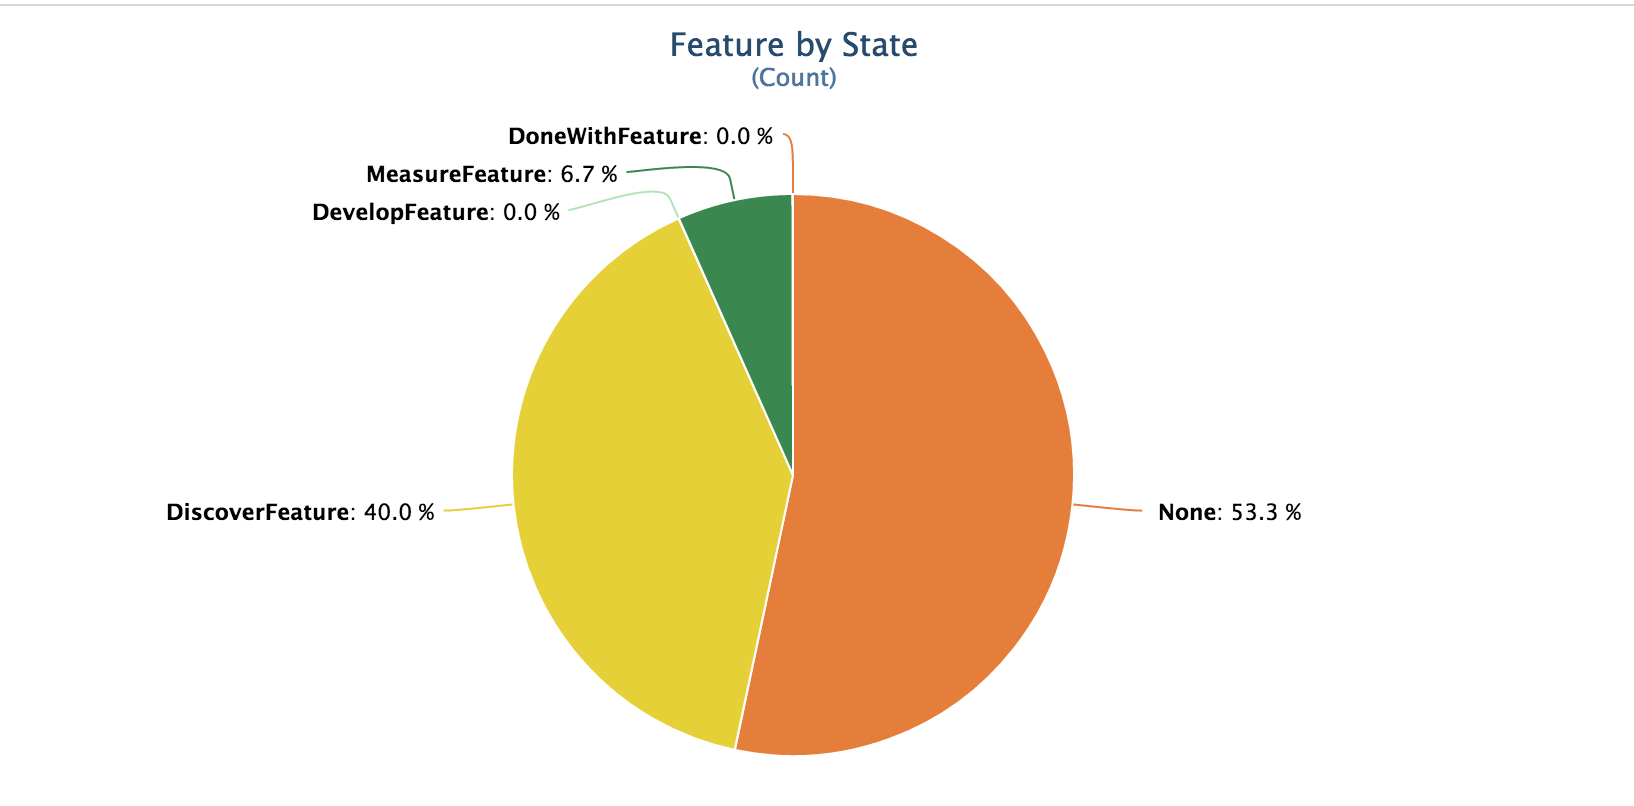
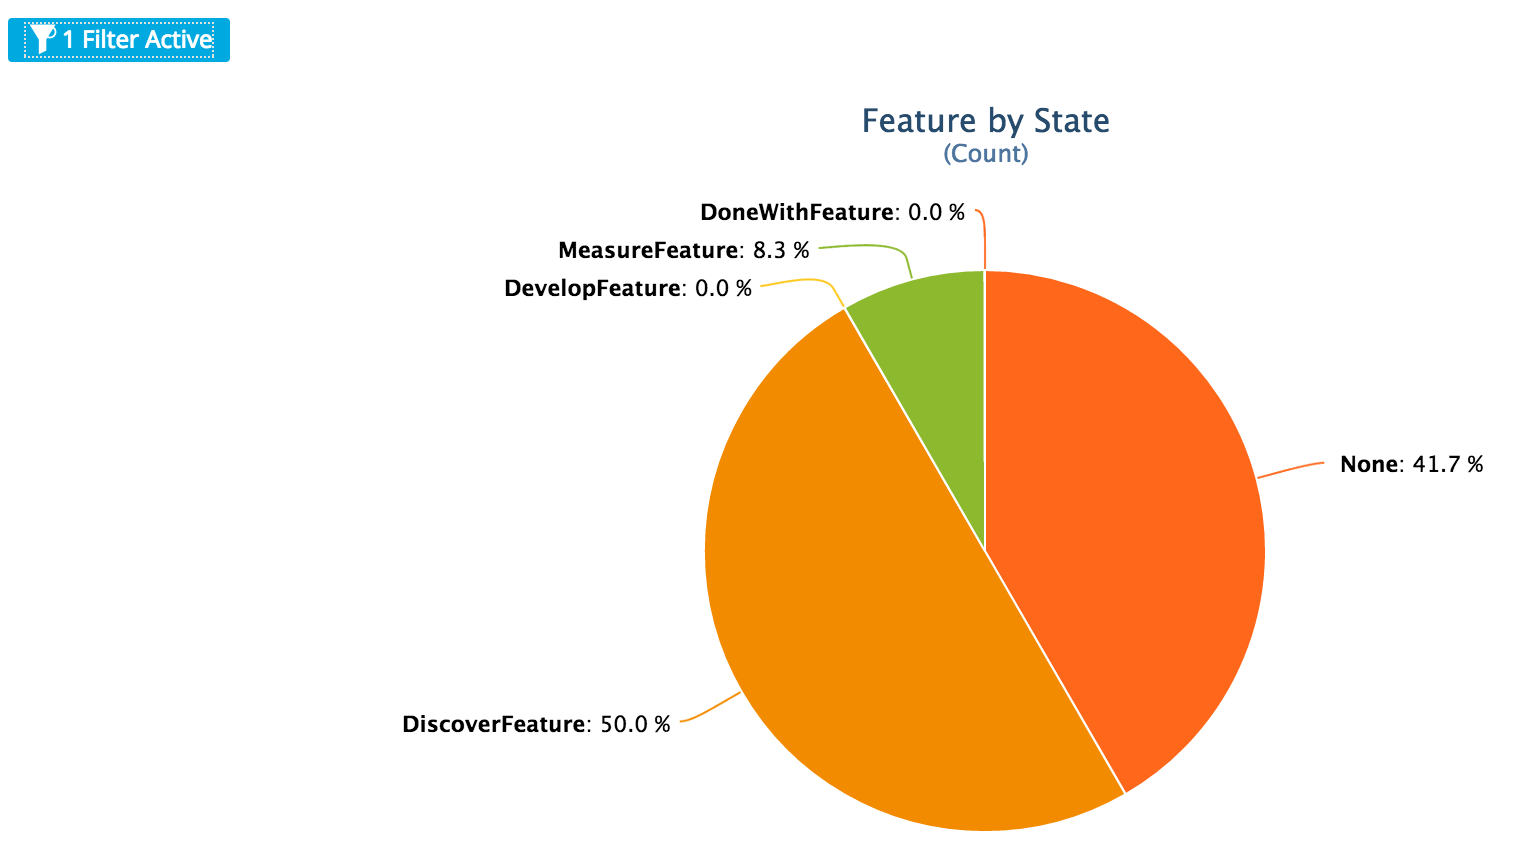
add advanced filter

diff --git a/configurable_pie_chart/src/javascript/app.js b/configurable_pie_chart/src/javascript/app.js
@@ -8,13 +8,19 @@ Ext.define("TSConfigurablePieChart", {
     items: [
         {
             xtype:'panel', 
-            itemId:'chart_box', 
+            itemId:'chart_box_panel', 
             flex: 1,
             hideCollapseTool: true,
             collapsible: true,
             collapsed: false,
             collapseDirection: 'left',
-            minHeight: 400
+            minHeight: 400,
+            margin: 0,
+            items: [
+                { xtype:'container', itemId: 'selector_box', layout: 'hbox' },
+                { xtype:'container', itemId: 'advanced_filter_box', flex: 1},
+                { xtype:'container', itemId: 'chart_box', flex: 1}
+            ]
         },
         {xtype:'container', itemId:'detail_box'}
     ],
@@ -46,15 +52,15 @@ Ext.define("TSConfigurablePieChart", {
             return;
         }
         
-        this.typeDisplayName = this.getSetting('types').replace(/.*\//,'');
-        
         this._loadModel(this.getSetting('types')).then({
             success: function(model) {
+                this.typeDisplayName = this.getSetting('types').replace(/.*\//,'');
                 this.field = model.getField(this.getSetting('aggregationField'));
                 this.fieldDisplayName = this.field.displayName;
                 this.typeDisplayName = this.getSetting('types').replace(/.*\//,'');
 
-                this._updateData();
+                this._addSelectors();
+                //this._updateData();
             },
             failure: function(msg) {
                 Ext.Msg.alert('',msg);
@@ -63,9 +69,55 @@ Ext.define("TSConfigurablePieChart", {
         }).always(function(){ me.setLoading(false);});
     },
     
+    _addSelectors: function() {
+        var container = this.down('#selector_box');
+        container.removeAll();
+//        var fp = this.getSelectorBox().add({
+//            xtype: 'fieldpickerbutton',
+//            modelNames: [this.getSetting('types')],
+//            context: this.getContext(),
+//            margin: '10 5 10 5',
+//            stateful: true,
+//            stateId: 'grid-columns'
+//        });
+//        fp.on('fieldsupdated', this.updateStoreFields, this);
+    
+        container.add({
+            xtype: 'rallyinlinefilterbutton',
+            modelNames: [this.getSetting('types')],
+            context: this.getContext(),
+            margin: '10 5 10 5',
+    
+            stateful: true,
+            stateId: 'grid-filters-1',
+            listeners: {
+                inlinefilterready: this._addInlineFilterPanel,
+                inlinefilterchange: this._updateData,
+                scope: this
+            }
+        });
+    
+//        container.add({
+//            xtype: 'listfilterbutton',
+//            context: this.getContext(),
+//            margin: '10 5 10 5',
+//            listeners: {
+//                scope: this,
+//                listready: this.addListFilterPanel,
+//                listupdated: this._updateData
+//            }
+//        });
+    
+    },
+    
+    _addInlineFilterPanel: function(panel) {
+        this.down('#advanced_filter_box').add(panel);
+    },
+    
     _updateData: function() {
         var me = this;
         this.setLoading("Loading...");
+        this._getChartBox().removeAll();
         
         Deft.Chain.pipeline([
             this._loadAllowedValues,
@@ -213,7 +265,6 @@ Ext.define("TSConfigurablePieChart", {
         var single_value_filter = Rally.data.wsapi.Filter.and(filters);
         var base_filters = this._getBaseFilters();
         
-        console.log(base_filters);
         if ( Ext.isEmpty(base_filters) ) { return single_value_filter; }
         
         return base_filters.and(single_value_filter);
@@ -285,7 +336,7 @@ Ext.define("TSConfigurablePieChart", {
        
         var colors = CA.agile.technicalservices.Colors.getRepeatedBasicColors(4);
          
-        this.down('#chart_box').add({
+        this._getChartBox().add({
             xtype:'rallychart',
             chartData: chart_data,
             chartColors: colors,
@@ -333,7 +384,7 @@ Ext.define("TSConfigurablePieChart", {
         
         var filters = this._getSingleValueFilter(group_value);
 
-        var chart_box = this._getChartBox();
+        var chart_box = this._getChartPanel();
         chart_box.collapse();
         
         var container = this._getDetailBox();
@@ -399,6 +450,10 @@ Ext.define("TSConfigurablePieChart", {
     
     _getChartBox: function() {
         return this.down('#chart_box');
+    },
+    
+    _getChartPanel: function() {
+        return this.down('#chart_box_panel');
     },
     
     _getColumns: function() {
@@ -593,16 +648,44 @@ Ext.define("TSConfigurablePieChart", {
         }
     },
     
-    _getBaseFilters: function() {
+    _getFiltersFromButton: function() {
+        var filterButton = this.down('rallyinlinefilterbutton');
+        if (filterButton && filterButton.inlineFilterPanel && filterButton.getWsapiFilter()){
+            return filterButton.getWsapiFilter();
+        }
+        
+        return null;
+    },
+    
+    _getFiltersFromSettingsQuery: function() {
         var queries = [],
-            timeboxScope = this.getContext().getTimeboxScope();
+        timeboxScope = this.getContext().getTimeboxScope();
         if (this.getSetting('query')) {
             queries.push(Rally.data.QueryFilter.fromQueryString(this.getSetting('query')));
         }
         if (timeboxScope && _.any(this.models, timeboxScope.isApplicable, timeboxScope)) {
             queries.push(timeboxScope.getQueryFilter());
         }
+        if ( queries.length === 0 ) {
+            return null;
+        }
         return Rally.data.wsapi.Filter.and(queries);
+    },
+    
+    _getBaseFilters: function() {
+        var filters = this._getFiltersFromSettingsQuery();
+        var advanced_filters = this._getFiltersFromButton();
+        
+        if ( filters && advanced_filters ) {
+            filters = filters.and(advanced_filters);
+        }
+        
+        if ( !filters ) { 
+            filters = advanced_filters;
+        }
+        
+        return filters;
+        
     }
     
 });
